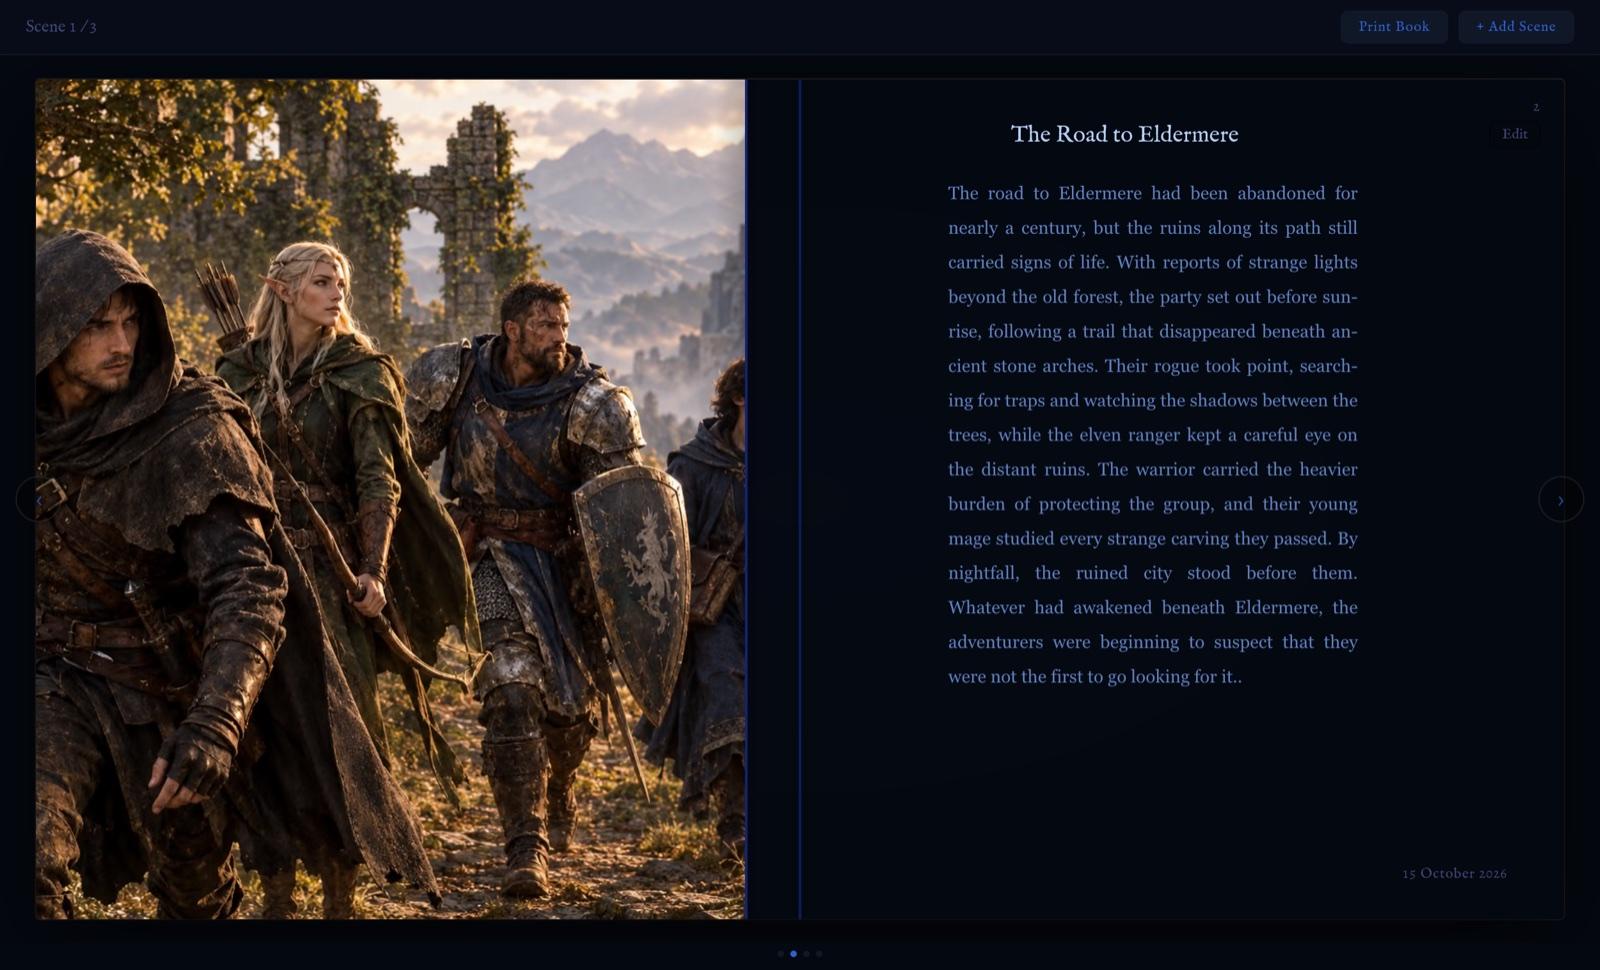
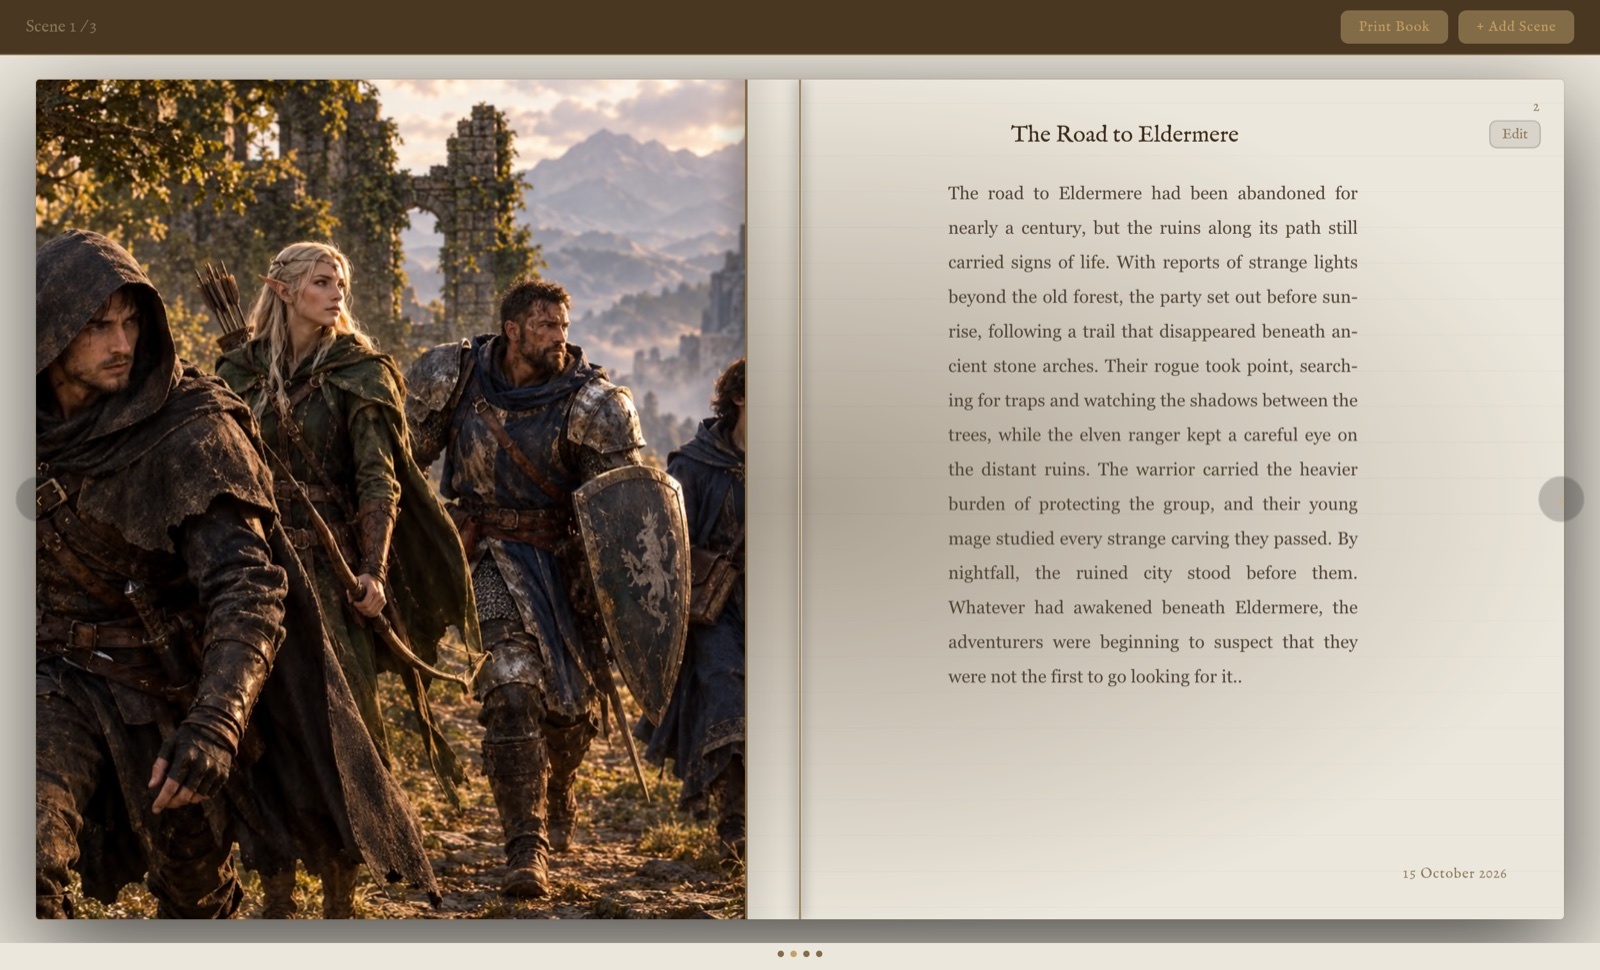
AI: hedge text requests (ask the next model if the first has not answered in 6s, first answer wins, rest cancelled), add flash-lite as a fast backup; slideshow screenshots back to the light theme for consistent branding, themes slide kept

diff --git a/server/routes/ai.js b/server/routes/ai.js
@@ -31,8 +31,11 @@ const newestFirst = (names) => [...names].sort((a, b) => version(b) - version(a)
 // try the newest stable "flash" model first: Google retires old names for new keys (gemini-2.5-flash now answers 404),
 // so a fixed name cannot be relied on. The fixed names stay as later fallbacks.
 const textModels = async (key) => {
-  const found = (await discoverModels(key)).filter(n => /flash/.test(n) && !/image|tts|live|audio|embed|thinking|exp|lite|latest|preview/.test(n))
-  return [process.env.GEMINI_MODEL, ...newestFirst(found).slice(0, 2), 'gemini-flash-latest', 'gemini-2.5-flash'].filter(Boolean)
+  const all = await discoverModels(key)
+  const bad = /image|tts|live|audio|embed|thinking|exp|latest|preview/
+  const flash = all.filter(n => /flash/.test(n) && !/lite/.test(n) && !bad.test(n))
+  const lite = all.filter(n => /flash-lite/.test(n) && !bad.test(n))
+  return [process.env.GEMINI_MODEL, ...newestFirst(flash).slice(0, 2), ...newestFirst(lite).slice(0, 1), 'gemini-flash-latest', 'gemini-2.5-flash'].filter(Boolean)
 }
 const imageModels = async (key) => {
   const found = (await discoverModels(key)).filter(n => /image/.test(n) && !/tts|live|audio|embed/.test(n))
@@ -42,48 +45,89 @@ const imageModels = async (key) => {
 // `pickModels` is a function (key) => model names, or a plain list.
 // Every failed attempt is recorded with its real reason (timeout, network error code, HTTP status and Google's message)
 // and the final error lists them, so "it doesn't work" always says why. The API key is never included.
-const callGemini = async (pickModels, body, { textOnly = false } = {}) => {
-  const key = (process.env.GEMINI_API_KEY || '').trim()
-  if (!key) throw Object.assign(new Error('The AI features are not configured on this server (GEMINI_API_KEY is missing).'), { status: 503 })
-  const models = typeof pickModels === 'function' ? await pickModels(key) : pickModels
-  const timeoutMs = textOnly ? 18000 : 25000
-  const attempts = []
-  let lastStatus = 0
-  const deadline = Date.now() + 30000 // finish well inside the browser's wait so the DM sees a real error, not a timeout
-  for (const model of [...new Set(models)]) {
-    if (Date.now() > deadline) break
-    const started = Date.now()
-    let res
-    try {
-      res = await fetch(`${GEMINI}/${model}:generateContent`, {
-        method: 'POST',
-        headers: { 'Content-Type': 'application/json', 'x-goog-api-key': key },
-        body: JSON.stringify(typeof body === 'function' ? body(model) : body),
-        signal: AbortSignal.timeout(timeoutMs),
-      })
-    } catch (e) {
-      const timedOut = e.name === 'TimeoutError' || e.name === 'AbortError'
-      const reason = timedOut ? `no answer within ${timeoutMs / 1000}s` : `could not reach Google (${e.cause?.code || e.code || e.message})`
-      console.error(`Gemini ${model} request error after ${Date.now() - started}ms:`, e.name, e.message, e.cause?.code || '')
-      attempts.push(`${model}: ${reason}`)
-      lastStatus = timedOut ? 504 : 502
-      continue
-    }
-    const data = await res.json().catch(() => ({}))
-    if (res.ok) return data
-    const detail = String(data?.error?.message || `HTTP ${res.status}`).slice(0, 220)
-    console.error(`Gemini ${model} failed (${res.status}) after ${Date.now() - started}ms: ${detail}`)
-    attempts.push(`${model}: HTTP ${res.status} ${detail}`)
-    lastStatus = res.status
-    // 429 is per model (and image models often have no free quota at all), so other models are still worth a try.
-    if (![404, 429, 500, 503, 504].includes(res.status)) break
+//
+// Text replies are "hedged": the first model is asked at once, and if it has not answered after HEDGE_MS the next
+// model is asked as well (and so on); whichever answers first wins and the rest are cancelled. A slow or overloaded
+// model therefore costs a few seconds, not the whole wait. Image requests stay one model at a time.
+const HEDGE_MS = Number(process.env.AI_HEDGE_MS) || 6000
+const TEXT_TOTAL_MS = Number(process.env.AI_TEXT_TOTAL_MS) || 26000
+
+const tryModel = async (key, model, body, signal) => {
+  const started = Date.now()
+  let res
+  try {
+    res = await fetch(`${GEMINI}/${model}:generateContent`, {
+      method: 'POST',
+      headers: { 'Content-Type': 'application/json', 'x-goog-api-key': key },
+      body: JSON.stringify(typeof body === 'function' ? body(model) : body),
+      signal,
+    })
+  } catch (e) {
+    if (signal.reason?.name === 'CancelledByWinner') return { cancelled: true }
+    const timedOut = e.name === 'TimeoutError' || e.name === 'AbortError'
+    console.error(`Gemini ${model} request error after ${Date.now() - started}ms:`, e.name, e.message, e.cause?.code || '')
+    return { note: `${model}: ${timedOut ? `no answer within ${Math.round((Date.now() - started) / 1000)}s` : `could not reach Google (${e.cause?.code || e.code || e.message})`}`, status: timedOut ? 504 : 502 }
   }
+  const data = await res.json().catch(() => ({}))
+  if (res.ok) return { data }
+  const detail = String(data?.error?.message || `HTTP ${res.status}`).slice(0, 220)
+  console.error(`Gemini ${model} failed (${res.status}) after ${Date.now() - started}ms: ${detail}`)
+  return { note: `${model}: HTTP ${res.status} ${detail}`, status: res.status }
+}
+
+const failure = (attempts, lastStatus) => {
   const summary = attempts.join(' | ')
   const message = lastStatus === 429 ? `Google's AI quota is used up or not available on this key. ${summary}`
     : lastStatus === 504 ? `Google's AI did not answer in time. ${summary}`
     : `The AI service could not answer. ${summary}`
-  throw Object.assign(new Error(message), { status: lastStatus === 429 ? 429 : 502, attempts })
+  return Object.assign(new Error(message), { status: lastStatus === 429 ? 429 : 502, attempts })
 }
+
+const callGemini = async (pickModels, body, { textOnly = false } = {}) => {
+  const key = (process.env.GEMINI_API_KEY || '').trim()
+  if (!key) throw Object.assign(new Error('The AI features are not configured on this server (GEMINI_API_KEY is missing).'), { status: 503 })
+  const models = [...new Set(typeof pickModels === 'function' ? await pickModels(key) : pickModels)]
+  const attempts = []
+  let lastStatus = 0
+
+  if (textOnly) {
+    return new Promise((resolve, reject) => {
+      const controllers = []
+      const timers = []
+      let started = 0, finished = 0, settled = false
+      const stop = () => { settled = true; timers.forEach(clearTimeout); controllers.forEach(c => c.abort(Object.assign(new Error('cancelled'), { name: 'CancelledByWinner' }))) }
+      const startNext = () => {
+        if (settled || started >= models.length) return
+        const model = models[started++]
+        const ctl = new AbortController(); controllers.push(ctl)
+        const signal = AbortSignal.any([ctl.signal, AbortSignal.timeout(TEXT_TOTAL_MS)])
+        if (started < models.length) timers.push(setTimeout(startNext, HEDGE_MS))
+        tryModel(key, model, body, signal).then(r => {
+          if (settled || r.cancelled) return
+          if (r.data) { stop(); return resolve(r.data) }
+          attempts.push(r.note); lastStatus = r.status; finished++
+          if (finished >= models.length) { stop(); return reject(failure(attempts, lastStatus)) }
+          startNext() // this model failed outright, so bring in the next one now instead of waiting
+        })
+      }
+      startNext()
+    })
+  }
+
+  const timeoutMs = 25000
+  const deadline = Date.now() + 30000 // finish well inside the browser's wait so the DM sees a real error, not a timeout
+  for (const model of models) {
+    if (Date.now() > deadline) break
+    const r = await tryModel(key, model, body, AbortSignal.timeout(timeoutMs))
+    if (r.data) return r.data
+    attempts.push(r.note); lastStatus = r.status
+    // 429 is per model (and image models often have no free quota at all), so other models are still worth a try.
+    if (![404, 429, 500, 502, 503, 504].includes(r.status)) break
+  }
+  throw failure(attempts, lastStatus)
+}
+
+export { callGemini as callGeminiForTests }
 
 const makeLimiter = (windowMs, max, message) => rateLimit({
   windowMs, max, standardHeaders: true, legacyHeaders: false,

diff --git a/server/routes/aiHedge.test.js b/server/routes/aiHedge.test.js
@@ -1,0 +1,56 @@
+import test from 'node:test'
+import assert from 'node:assert/strict'
+
+process.env.GEMINI_API_KEY = 'test-key'
+process.env.AI_HEDGE_MS = '150'
+process.env.AI_TEXT_TOTAL_MS = '1500'
+const { callGeminiForTests: callGemini } = await import('./ai.js')
+
+const reply = (text) => new Response(JSON.stringify({ candidates: [{ content: { parts: [{ text }] } }] }), { status: 200 })
+const realFetch = globalThis.fetch
+const withFetch = async (fn, body) => { globalThis.fetch = fn; try { return await body() } finally { globalThis.fetch = realFetch } }
+const stall = (signal) => new Promise((_, reject) => signal.addEventListener('abort', () => reject(signal.reason ?? Object.assign(new Error('aborted'), { name: 'AbortError' }))))
+
+test('a stalled first model costs only the hedge delay: the second model answers and the first is cancelled', async () => {
+  const seen = []; let firstAborted = false
+  await withFetch(async (url, opts) => {
+    const model = String(url).match(/models\/([^:]+):/)[1]; seen.push(model)
+    if (model === 'slow-model') { try { await stall(opts.signal) } catch (e) { firstAborted = true; throw e } }
+    return reply(`from ${model}`)
+  }, async () => {
+    const started = Date.now()
+    const data = await callGemini(['slow-model', 'fast-model', 'third-model'], {}, { textOnly: true })
+    assert.equal(data.candidates[0].content.parts[0].text, 'from fast-model')
+    assert.ok(Date.now() - started < 1000, 'did not wait for the stalled model')
+    await new Promise(r => setTimeout(r, 50))
+    assert.ok(firstAborted, 'the stalled request was cancelled')
+    assert.deepEqual(seen, ['slow-model', 'fast-model'], 'the third model is never asked')
+  })
+})
+
+test('a model that fails outright brings in the next one at once', async () => {
+  const seen = []
+  await withFetch(async (url) => {
+    const model = String(url).match(/models\/([^:]+):/)[1]; seen.push(model)
+    return model === 'gone' ? new Response(JSON.stringify({ error: { message: 'retired' } }), { status: 404 }) : reply('ok')
+  }, async () => {
+    const started = Date.now()
+    const data = await callGemini(['gone', 'works'], {}, { textOnly: true })
+    assert.equal(data.candidates[0].content.parts[0].text, 'ok')
+    assert.ok(Date.now() - started < 100, 'no hedge delay when the first fails fast')
+  })
+})
+
+test('when every model fails the error lists each real reason', async () => {
+  await withFetch(async (url, opts) => {
+    const model = String(url).match(/models\/([^:]+):/)[1]
+    if (model === 'stuck') { await stall(opts.signal) }
+    return new Response(JSON.stringify({ error: { message: 'quota gone' } }), { status: 429 })
+  }, async () => {
+    await assert.rejects(() => callGemini(['stuck', 'limited'], {}, { textOnly: true }), (e) => {
+      assert.match(e.message, /stuck: no answer within/)
+      assert.match(e.message, /limited: HTTP 429 quota gone/)
+      return true
+    })
+  })
+})

diff --git a/client/src/pages/PublicDemo.jsx b/client/src/pages/PublicDemo.jsx
@@ -40,7 +40,7 @@ const ABOUT = [
   { title: 'Campaign Guide', image: '/showcase/campaign-guide.jpg', alt: 'The Campaign Guide with story, current arc, session recap and world notes, and the world-building guide panel on the right', text: 'Keep your story, current arc, session recap and quests in one guide. The optional AI guide only asks questions to help you decide, so the world stays yours.', to: '/register', cta: 'Create a free account' },
   { id: 'roleplay', image: '/showcase/roleplay.jpg', alt: 'The Roleplay Assistant with character basics and character depth fields filled in', title: 'Roleplay', text: 'Fill in your character’s background, personality and goals, and get a session plan that ties them to the story your DM is telling.' },
   { title: 'Lore, characters and dice', visual: <SpinningDice />, text: 'Keep world and NPC lore, build character sheets and roll true 3D d4, d6, d8, d10, d12 and d20 dice.', to: '/register', cta: 'Create a free account' },
-  { title: 'Class themes', badge: 'Premium', visual: <ThemeMontage />, text: 'Switch the whole app between class themes such as Barbarian, Wizard, Druid, Paladin, Rogue and Bard. Most screenshots in this slideshow use a different one. Light and Dark are free.', to: '/register', cta: 'Create a free account' },
+  { title: 'Class themes', badge: 'Premium', visual: <ThemeMontage />, text: 'Switch the whole app between class themes such as Barbarian, Wizard, Druid, Paladin, Rogue and Bard. The rest of these screenshots show the default light theme. Light and Dark are free.', to: '/register', cta: 'Create a free account' },
   { title: 'Free to start, Premium to grow', badge: 'Premium', visual: <PlanTable />, text: 'Everything above works on a free account. Premium lifts the limits for bigger campaigns and adds every class theme.', to: '/register', cta: 'Create a free account' },
 ]
 
